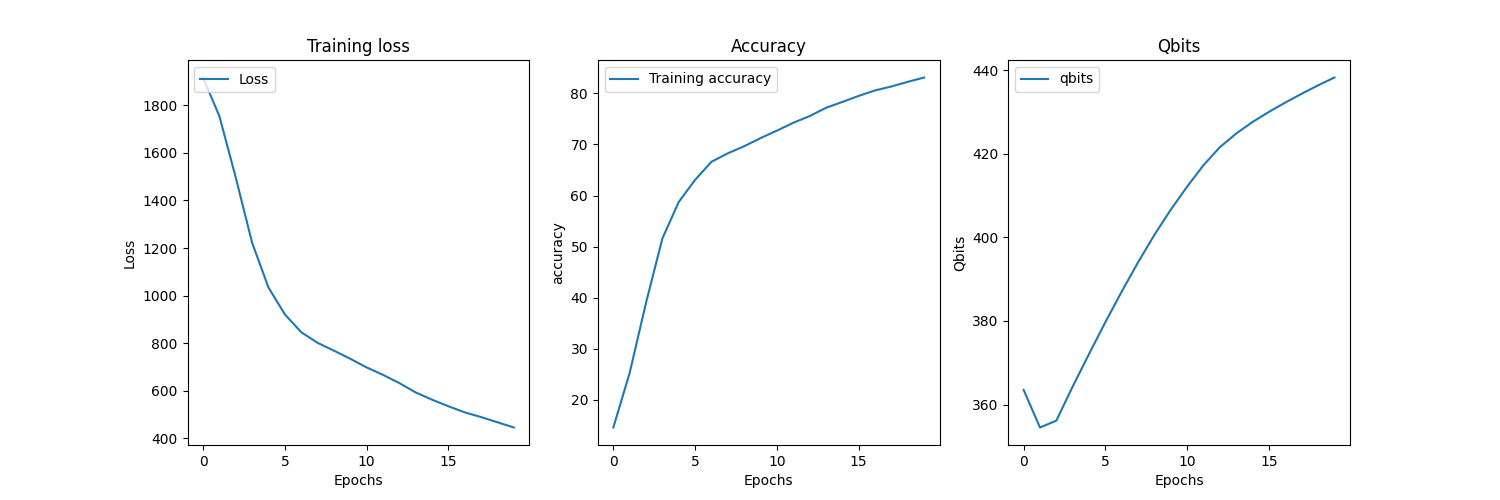
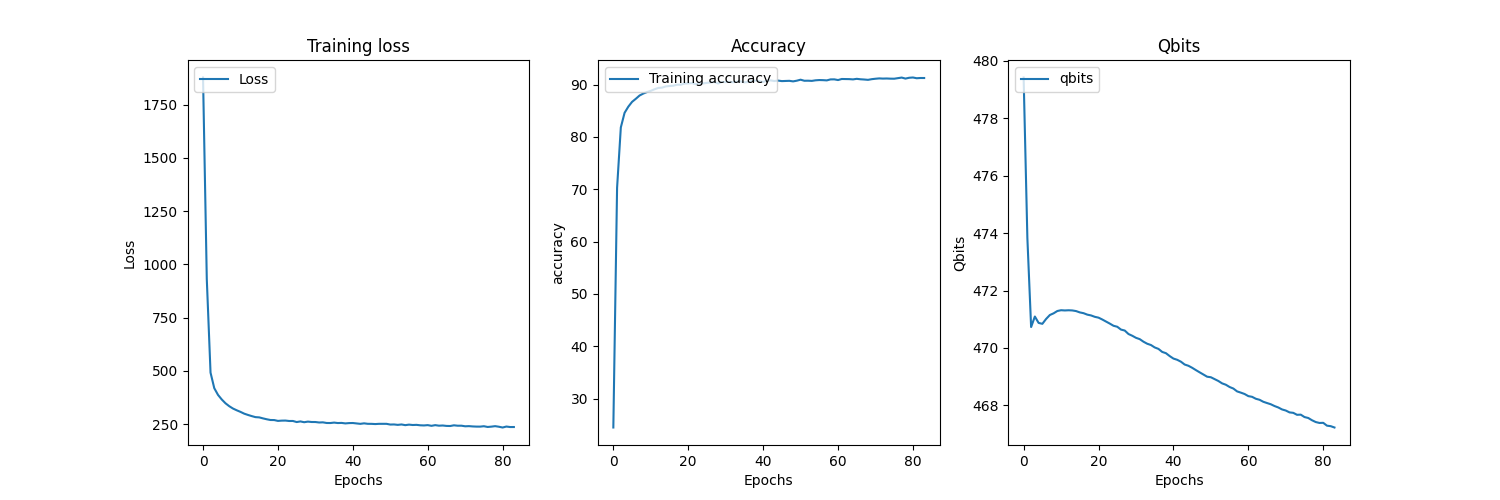
progress on self compressing model

diff --git a/architecture/self-compressing/model.py b/architecture/self-compressing/model.py
@@ -16,28 +16,6 @@ from optimization_playground_shared.plot.Plot import Plot, Figure
 from tqdm import tqdm
 
 
-"""
-======
-"""
-
-import torch.autograd as autograd
-class STEFunction(autograd.Function):
-    @staticmethod
-    def forward(ctx, input):
-        return (input > 0).float()
-    @staticmethod
-    def backward(ctx, grad_output):
-        return F.hardtanh(grad_output)
-class StraightThroughEstimator(nn.Module):
-    def __init__(self):
-        super(StraightThroughEstimator, self).__init__()
-    def forward(self, x):
-        x = STEFunction.apply(x)
-        return x
-"""
-======
-"""
-
 # equation 1
 def q(x, b, e):
     return (2 ** e) * torch.min(
@@ -55,27 +33,30 @@ class CompressionConv(nn.Module):
         self.stride = stride
         self.weight = torch.nn.Parameter(torch.Tensor(out_channels, in_channels, kernel_size, kernel_size))
         nn.init.normal_(self.weight)
-        self.bias = torch.nn.Parameter(torch.Tensor(out_channels)) # in_channels, kernel_size, kernel_size)
+        self.bias = torch.nn.Parameter(torch.Tensor(out_channels))
         nn.init.normal_(self.bias)
         # parameters used to compress the network
         eps = -8.
         bits = 2.
-        self.bit_depth = torch.nn.Parameter(torch.zeros((out_channels, 1, 1, 1)).fill_(bits))
-        self.floating_point_exp = torch.zeros((out_channels, 1, 1, 1)).fill_(eps)
-        self.ste = StraightThroughEstimator()
+        # full(shape, value) = tensor(shape)._fill(value)
+        self.bit_depth = torch.nn.Parameter(torch.full((out_channels, 1, 1, 1), bits))
+        # TODO: should this be learnable ? 
+        self.floating_point_exp = torch.full((out_channels, 1, 1, 1), eps)
 
     def bits(self):
+        # equation 4
         return F.relu(self.bit_depth).sum() + torch.prod(torch.tensor(self.weight.shape[1:]))
 
     def forward(self, input):
         weights = q(
             self.weight,
-            F.relu(self.bit_depth),
+            self.bit_depth,
             self.floating_point_exp
         )
         # Make the gradients flow, STE
-        compressed_weight = self.ste(weights)
-        compressed_weight = 2 ** self.floating_point_exp * compressed_weight
+        # https://x.com/ptrblck_de/status/1177224632597929984?lang=en
+        # https://x.com/realDcThang/status/1177252043662209024
+        compressed_weight = weights +  (weights - weights.round()).detach()
         return F.conv2d(input, compressed_weight, self.bias, self.stride,
                         self.padding, dilation=1, groups=1)
 
@@ -89,18 +70,11 @@ class BasicConvModel(nn.Module):
             conv_layer = CompressionConv
 
         self.m = nn.BatchNorm2d(input_shape[0])
-        self.conv1 = conv_layer(input_shape[0], 12, 5)
+        self.conv1 = conv_layer(input_shape[0], 16, 5)
         self.pool = nn.MaxPool2d(2, 2)
-        self.conv2 = conv_layer(12, 16, 5)
-        # self.output_shape = ((
-        #     get_output_shape(input_shape,
-        #     [self.conv1, self.pool, self.conv2, self.pool])
-        # ))
+        self.conv2 = conv_layer(16, 16, 5)
         self.num_classes = num_classes
-        self.fc1 = nn.Linear(256, 256)
         self.out = nn.Sequential(
-            self.fc1,
-            nn.ReLU(),
             nn.Linear(256, num_classes),
             nn.LogSoftmax(dim=1),
         )

diff --git a/shared-library/src/optimization_playground_shared/training_loops/TrainingLoopAccumulate.py b/shared-library/src/optimization_playground_shared/training_loops/TrainingLoopAccumulate.py
@@ -1,13 +1,15 @@
 import torch
 import torch.nn as nn
+from tqdm import tqdm
 
 class TrainingLoopAccumulate:
-    def __init__(self, model, optimizer):
+    def __init__(self, model, optimizer, loss= nn.NLLLoss()):
         self.model = model
         self.optimizer = optimizer
-        self.loss = nn.NLLLoss()
+        self.loss = loss
         self.accumulate_steps = 32
         self.epoch = 0
+        self.iterator_loop = lambda x, _train: x
     
     def eval(self, dataloader):
         with torch.no_grad():
@@ -17,6 +19,10 @@ class TrainingLoopAccumulate:
     def train(self, dataloader):
         return self._iterate(dataloader, train=True)
 
+    def use_tqdm(self):
+        self.iterator_loop = lambda x, train: tqdm(x, desc="Training" if train else "Testing")
+        return self
+
     def _iterate(self, dataloader, train=True):
         device = torch.device("cuda:0" if torch.cuda.is_available() else "cpu") 
         self.model.to(device)
@@ -24,20 +30,30 @@ class TrainingLoopAccumulate:
         accuracy = torch.tensor(0.0, device=device)
         length = 0
 
-        for index, (X, y) in enumerate(dataloader):
+        has_nan_loss = None
+        training_loop = self.iterator_loop(dataloader, train)
+        for index, (X, y) in enumerate(training_loop):
             X = X.to(device)
             y = y.to(device)
             y_pred = self.model(X)
 
             if train:
                 loss = self.loss(y_pred, y)
-                loss.backward()
-
+                if not torch.isnan(loss):
+                    loss.backward()
+                    total_loss += loss
+                # Do the step and zero_grad
                 if (0 < index) and index % self.accumulate_steps:
                     self._step()
-                total_loss += loss             
             accuracy += (torch.argmax(y_pred, 1) == y).sum()
             length += X.shape[0]
+            # Fallback
+            if isinstance(training_loop, tqdm):
+                if has_nan_loss:
+                    training_loop.set_description(f"Loss: {total_loss.item()} (last loss was nan), Accuracy: {(accuracy / length) * 100}%")                    
+                else:
+                    training_loop.set_description(f"Loss: {total_loss.item()}, Accuracy: {(accuracy / length) * 100}%")
+        
 
         self._step()
         accuracy = (accuracy / length) * 100 

diff --git a/shared-library/src/optimization_playground_shared/training_loops/TrainingLoop.py b/shared-library/src/optimization_playground_shared/training_loops/TrainingLoop.py
@@ -59,13 +59,6 @@ class TrainingLoop:
                 loss.backward()
                 self.optimizer.step()
 
-            # Fallback
-            if isinstance(training_loop, tqdm):
-                if has_nan_loss:
-                    training_loop.set_description(f"Loss: {total_loss.item()} (last loss was nan), Accuracy: {(accuracy / length) * 100}%")                    
-                else:
-                    training_loop.set_description(f"Loss: {total_loss.item()}, Accuracy: {(accuracy / length) * 100}%")
-        
             # TODO: Maybe instead add a custom accuracy metric field
             if y_pred.shape[-1] == 1:
                 # check if it is within the error margin
@@ -73,6 +66,14 @@ class TrainingLoop:
             else:
                 accuracy += (torch.argmax(y_pred, 1) == y).sum()
             length += X.shape[0]
+
+            # Fallback
+            if isinstance(training_loop, tqdm):
+                if has_nan_loss:
+                    training_loop.set_description(f"Loss: {total_loss.item()} (last loss was nan), Accuracy: {(accuracy / length) * 100}%")                    
+                else:
+                    training_loop.set_description(f"Loss: {total_loss.item()}, Accuracy: {(accuracy / length) * 100}%")
+        
         accuracy = (accuracy / length) * 100 
         self.epoch += 1
         return (

diff --git a/applied/document-ranking/torch_models_test.py b/applied/document-ranking/torch_models_test.py
@@ -7,7 +7,7 @@ from optimization_playground_shared.nlp.PositionalEncoding import PositionalEnco
 from optimization_playground_shared.nlp.utils.sampling import temperature_sampling
 from optimization_playground_shared.nlp.SimpleVocab import SimpleVocab
 from optimization_playground_shared.dataloaders.RawTensorToDataloader import get_dataloader as get_raw_dataloader
-from optimization_playground_shared.training_loops.TrainingLoop import TrainingLoop
+from optimization_playground_shared.training_loops.TrainingLoopAccumulate import TrainingLoopAccumulate
 import pickle
 from dataset import get_dataset
 import torch
@@ -142,7 +142,7 @@ def get_cached_model(vocab):
 
 def train_loop(vocab, model, X_raw_documents):
     optimizer = optim.Adam(model.parameters(), lr=13e-4)
-    trainer = TrainingLoop(model, optimizer, loss=torch.nn.CrossEntropyLoss(ignore_index=vocab.vocab.PADDING_IDX))
+    trainer = TrainingLoopAccumulate(model, optimizer, loss=torch.nn.CrossEntropyLoss(ignore_index=vocab.vocab.PADDING_IDX))
     for _  in range(32):
         document = X_raw_documents[random.randint(0, len(X_raw_documents) - 1)]
         X, y = get_document_dataset(vocab, [document])
